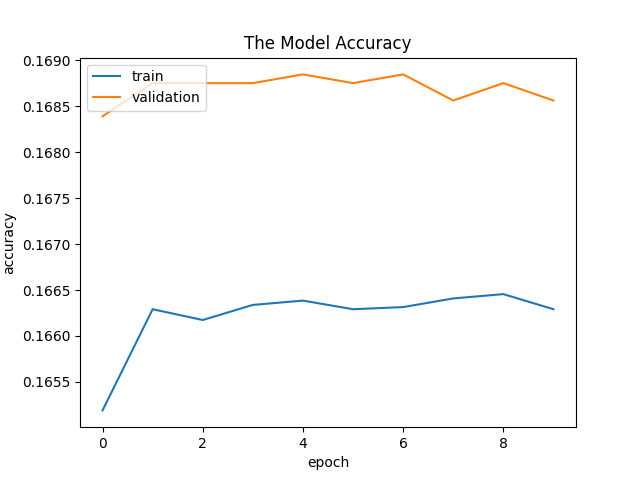
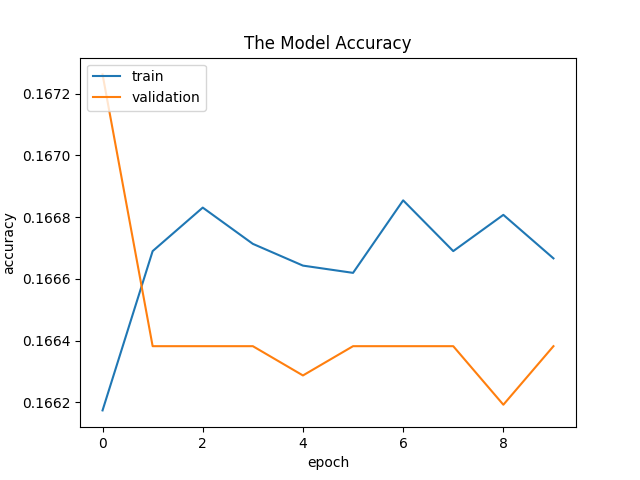
Update all pictures with the latest model

diff --git a/model.py b/model.py
@@ -127,7 +127,7 @@ def create_model(row, col, ch):
     # Flatten
     model.add(Flatten())
 
-    # Add  5 Fully Connected Layers, with 1 Dropout layer
+    # Add 5 Fully Connected Layers, 4 Activation function and 1 Dropout layer
     model.add(Dense(1000))
     model.add(Activation('relu'))
     model.add(Dropout(0.5))
@@ -173,6 +173,8 @@ validation_generator = generator(validation_samples, batch_size)
 # input shape
 ch, row, col = 3, 160, 320
 model = create_model(row, col, ch)
+
+print(model.summary())
 
 '''
 Train the Model

diff --git a/README.md b/README.md
@@ -72,14 +72,16 @@ def create_model(row, col, ch):
     # Flatten
     model.add(Flatten())
 
-    # Add  5 Fully Connected Layers, with 1 Dropout layer
+    # Add 5 Fully Connected Layers, 4 Activation function and 1 Dropout layer
     model.add(Dense(1000))
     model.add(Activation('relu'))
     model.add(Dropout(0.5))
     model.add(Dense(200))
     model.add(Activation('relu'))
     model.add(Dense(50))
+    model.add(Activation('relu'))
     model.add(Dense(10))
+    model.add(Activation('relu'))
     model.add(Dense(1))
 
     # Compile with Adam Optimizer
